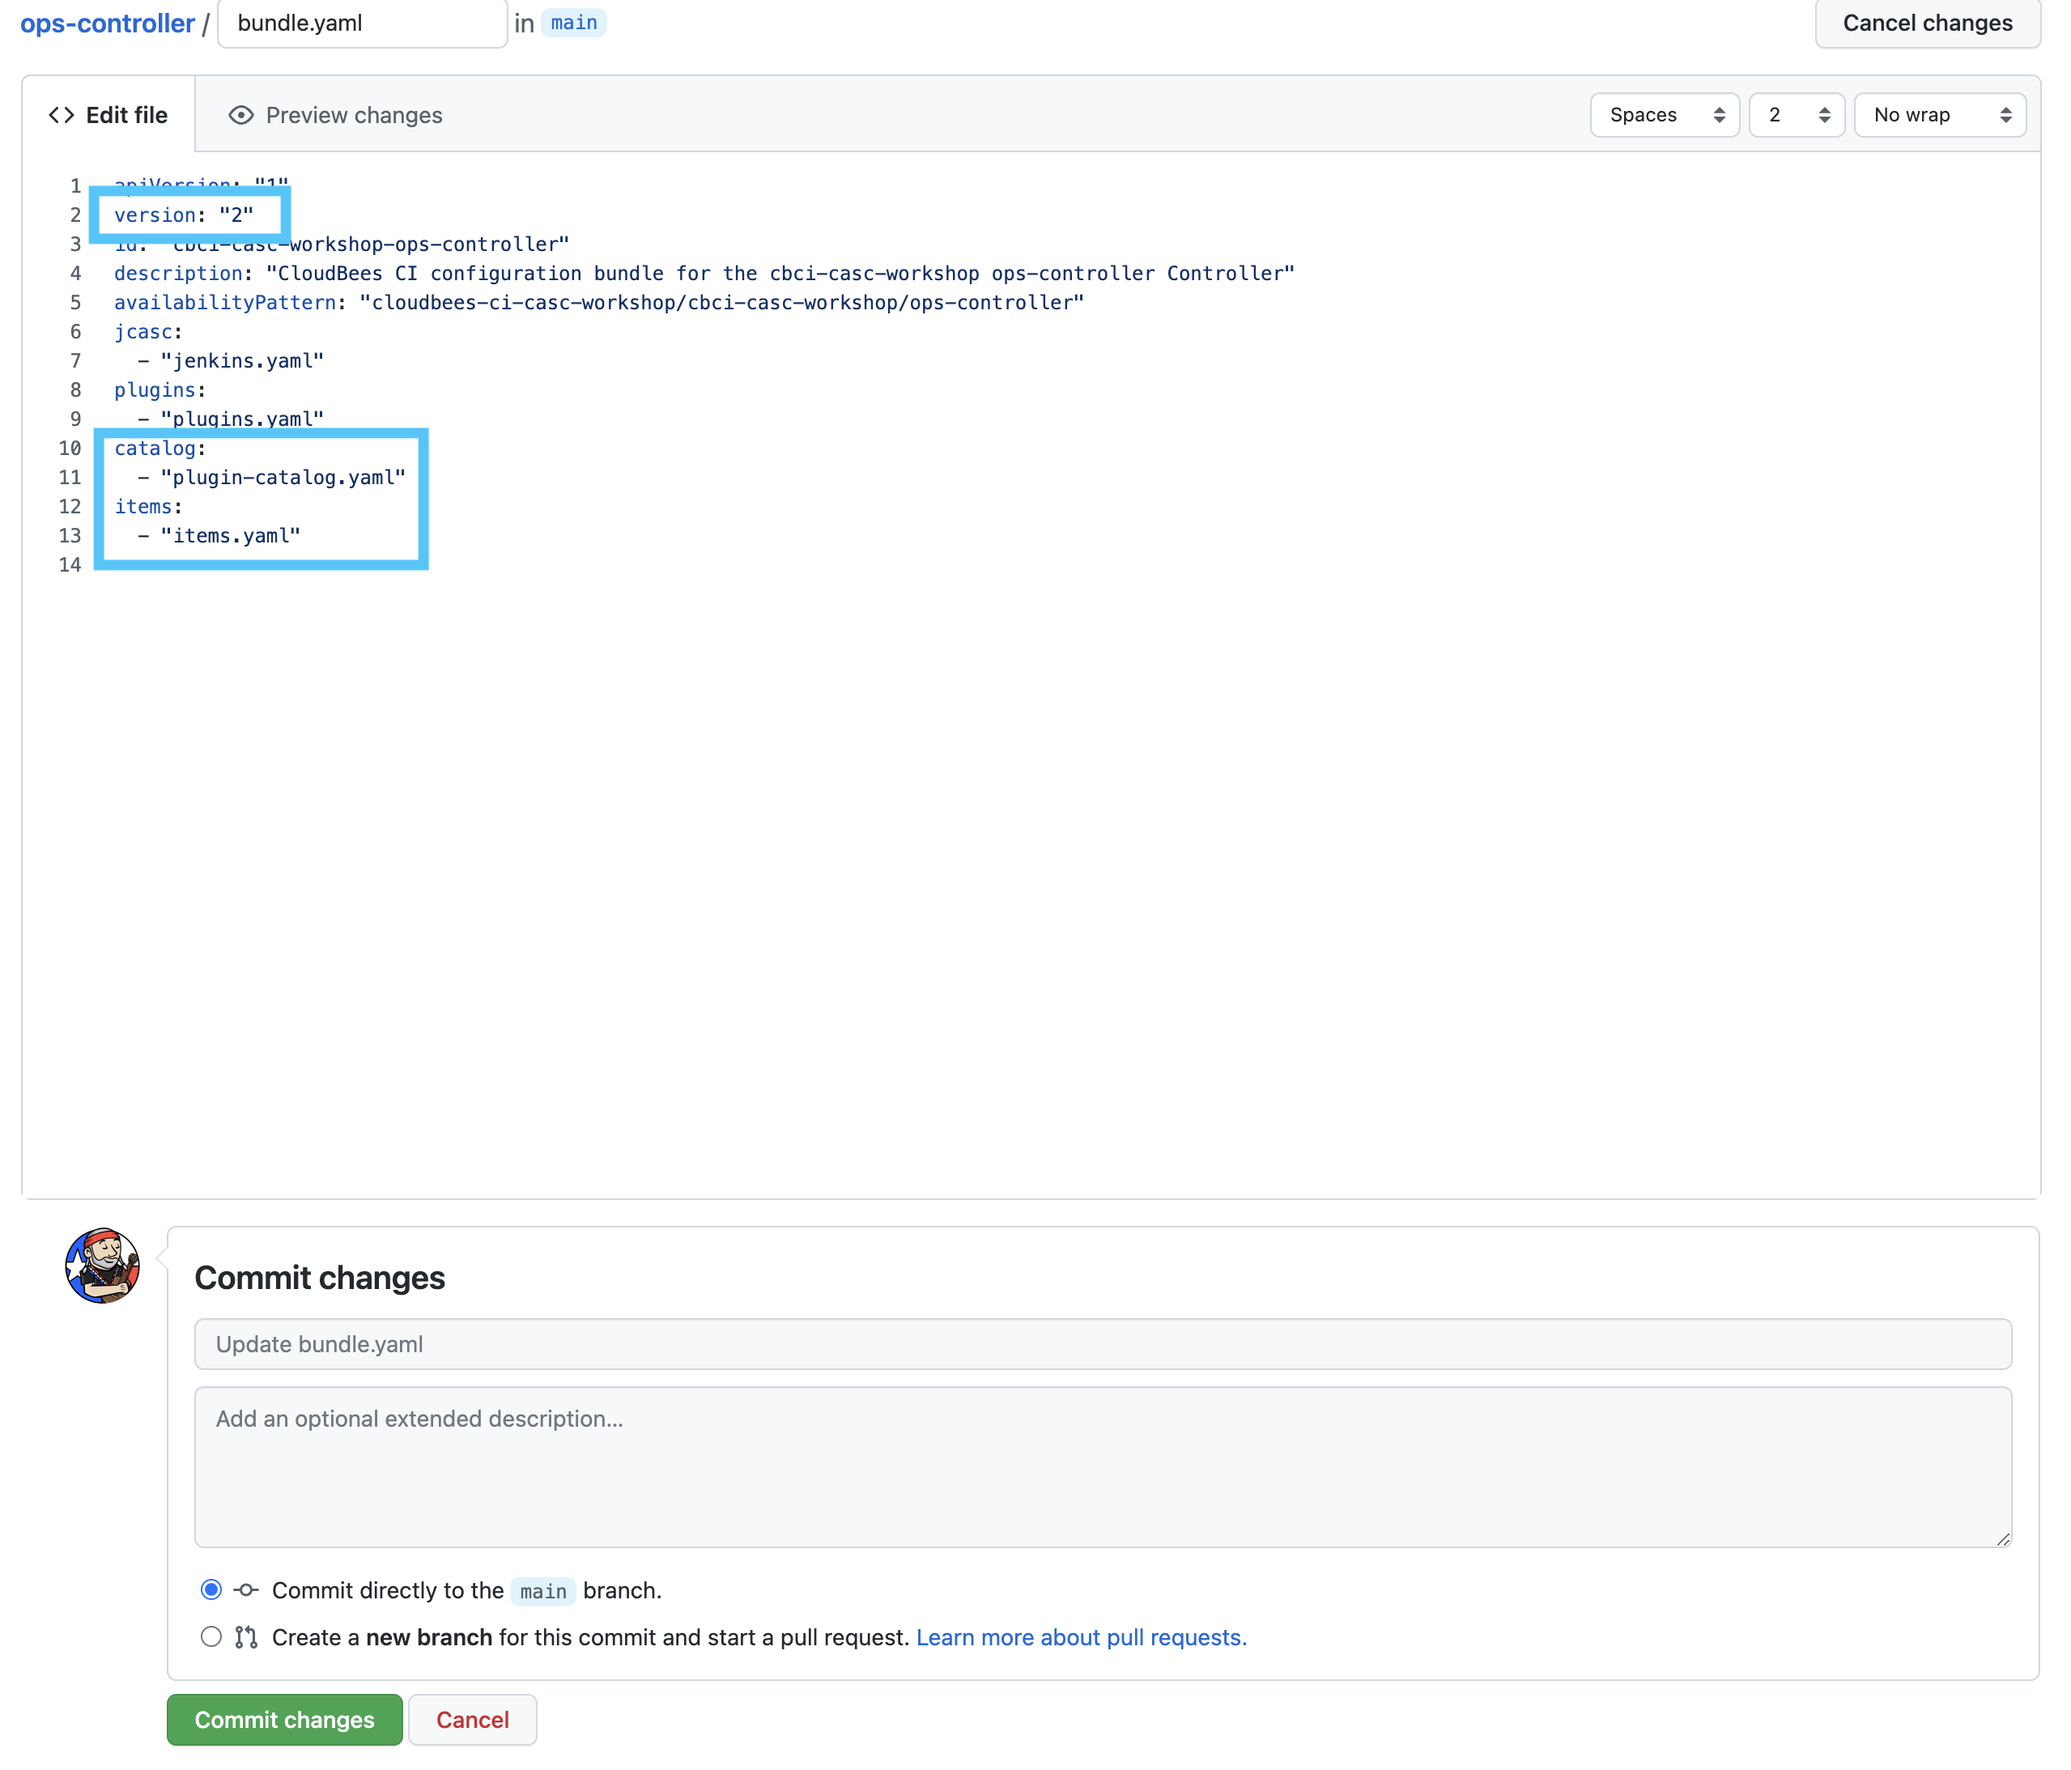
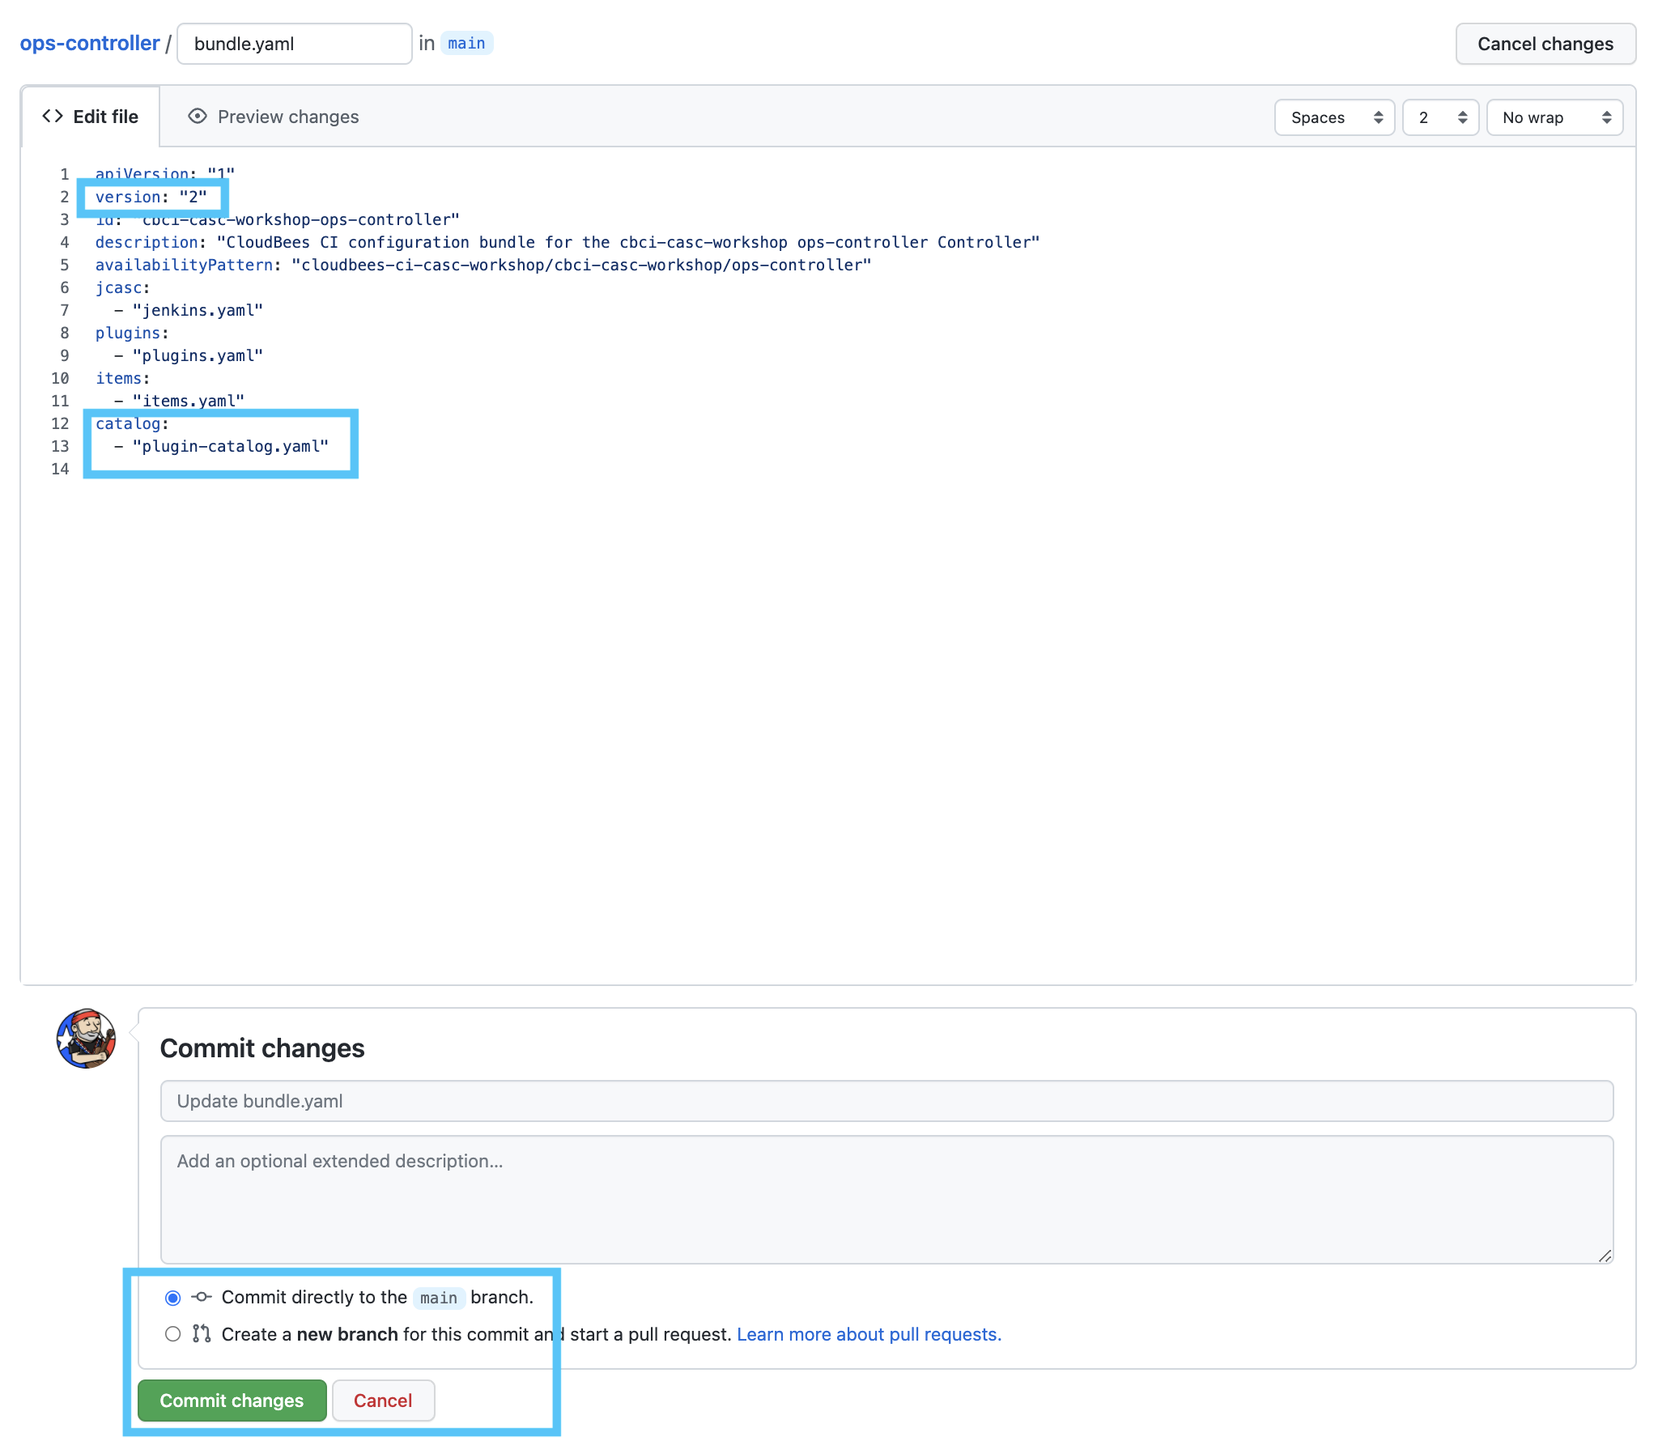
adding items

diff --git a/labs/cloudbees-ci-casc/content/labs/bundle-composition.md b/labs/cloudbees-ci-casc/content/labs/bundle-composition.md
@@ -254,8 +254,8 @@ plugins:
 - id: cloudbees-restricted-credentials
 ```
 {{% /expand%}}
-23. In addition to updating the `plugins.yaml`, we also added the`plugin-catalog.yaml` file. But it is not listed in the `bundles.yaml`. In order to have that file used by configuration bundle on our controller, we need to add it to the `bundle.yaml` file, so click on the `bundles.yaml` file and then click on the ***Edit this file*** pencil button.
-24. In the GitHub file editor for the `bundle.yaml` file, update the `version` field to **2** and add the following configuration to the end of the `bundle.yaml` file:
+14. In addition to updating the `plugins.yaml`, we also added the`plugin-catalog.yaml` file. But it is not listed in the `bundles.yaml`. In order to have that file used by configuration bundle on our controller, we need to add it to the `bundle.yaml` file, so click on the `bundles.yaml` file and then click on the ***Edit this file*** pencil button.
+15. In the GitHub file editor for the `bundle.yaml` file, update the `version` field to **2** and add the following configuration to the end of the `bundle.yaml` file:
 ```yaml
 catalog:
   - "plugin-catalog.yaml"
@@ -265,17 +265,75 @@ catalog:
 In previous versions of CloudBees CI Configuration as Code (CasC) for Controllers the `version` field of the `bundle.yaml` file had to be modified in order for an update to be triggered for controllers using that bundle. This is no longer required as any change in any file in a bundle will trigger a bundle update for any controllers using the updated bundle once those changes are copied to the JCasC bundle directory on Operations Center. However, it is still considered a best practice to increment the bundle version.
 {{% /notice %}}
 
-25. Commit the `bundle.yaml` file directly to the `main` branch of your `ops-controller` repository. ![Commit bundle.yaml](commit-bundle.png?width=50pc)
-14. Navigate back to the top level of your Ops controller, click on the **controller-jobs** folder.  ![Controller jobs](controller-jobs-folder.png?width=50pc) 
-15. On the **controller-jobs** folder click on the **Configure** left menu item. ![Configure folder](configure-folder-link.png?width=50pc) 
-16. Scroll to the bottom of the folder configuration and click on **Restrict the kind of children in this folder** - a [CloudBees Folders Plus](https://docs.cloudbees.com/docs/cloudbees-core/latest/cloud-secure-guide/folders-plus) feature - and then select **Pipeline**, **Multibranch Pipeline** and **Organization Folder** so only Jenkins Pipeline type jobs are allowed to be created in the folder; and then hit the **Save** button. ![Configure folder](configure-folder.png?width=50pc) 
-17. Navigate back to the top-level of your Ops controller and you should see the new **controller-jobs** folder. Click on the **Manage Jenkins** link in the left menu. ![Folder created](folder-created.png?width=50pc) 
-18. Next, On the **Manage Jenkins** page click on **CloudBees Configuration as Code export and update** under the **System Configuration** section.
-19. On the **CloudBees Configuration as Code export and update** page of your Ops controller, instead of clicking the *visualize* link, click the *Copy content* link for the `items.yaml` **Filename**. ![Items copy content link](items-copy-content-link.png?width=50pc) 
-20. Navigate to the top level of your copy of the `ops-controller` repository in your workshop GitHub Organization and click on the **Add file** button and then select **Create new file**. ![Create new file in GitHub](github-create-new-file.png?width=50pc)
-21. On the next screen, name the new file `items.yaml`, paste the contents from the `items.yaml` export (same as above).
-22. Add the `- jenkins.branch.OrganizationFolder` type as shown above and then commit directly to the `main` branch. ![Commit items.yaml](commit-items.png?width=50pc)
-26. The contents of your copy of the `ops-controller` repository in your workshop GitHub Organization should match the following screenshot: ![Repository contents](repository-contents.png?width=50pc)
-27. Finally, navigate back to the top level of your Ops controller, click on the **controller-jobs** folder and then click **Delete Folder** in the left menu. When the updated configuration bundle is applied to your Ops controller it will add the `controller-jobs` folder back. ![Delete folder](delete-folder.png?width=50pc)
+16. Commit the `bundle.yaml` file directly to the `main` branch of your `ops-controller` repository. ![Commit bundle.yaml](commit-bundle.png?width=50pc)
+17. Navigate back to the top level of your Ops controller, click on the **controller-jobs** folder.  ![Controller jobs](controller-jobs-folder.png?width=50pc) 
+18. On the **controller-jobs** folder click on the **Configure** left menu item. ![Configure folder](configure-folder-link.png?width=50pc) 
+19. Scroll to the bottom of the folder configuration and click on **Restrict the kind of children in this folder** - a [CloudBees Folders Plus](https://docs.cloudbees.com/docs/cloudbees-core/latest/cloud-secure-guide/folders-plus) feature - and then select **Pipeline**, **Multibranch Pipeline** and **Organization Folder** so only Jenkins Pipeline type jobs are allowed to be created in the folder; and then hit the **Save** button. ![Configure folder](configure-folder.png?width=50pc) 
+20. Navigate back to the top-level of your Ops controller and click on the **Manage Jenkins** link in the left menu. ![Folder updated](folder-created.png?width=50pc) 
+21. Next, On the **Manage Jenkins** page click on **CloudBees Configuration as Code export and update** under the **System Configuration** section.
+22. On the **CloudBees Configuration as Code export and update** page of your Ops controller, instead of clicking the *visualize* link, click the *Copy content* link for the `items.yaml` **Filename**. ![Items copy content link](items-copy-content-link.png?width=50pc) 
+23. Navigate to the top level of your copy of the `ops-controller` and click on the `items.yaml` file and then click on the ***Edit this file*** pencil button. ![Edit items.yaml](edit-items.png?width=50pc)
+24. Replace the entire contents of the file with the contents you copied from the `items.yaml` export and then commit directly to the `main` branch. ![Commit items.yaml](commit-items.png?width=50pc)
+
+{{%expand "expand for complete updated items.yaml file" %}}
+```yaml
+removeStrategy:
+  rbac: SYNC
+  items: NONE
+items:
+- kind: folder
+  displayName: controller-jobs
+  name: controller-jobs
+  description: ''
+  items:
+  - orphanedItemStrategy:
+      defaultOrphanedItemStrategy:
+        pruneDeadBranches: true
+        daysToKeep: -1
+        numToKeep: -1
+    kind: organizationFolder
+    displayName: cbci-casc-automation
+    name: cbci-casc-automation
+    navigators:
+    - github:
+        apiUri: https://api.github.com
+        repoOwner: cbci-casc-workshop
+        credentialsId: cloudbees-ci-casc-workshop-github-app
+    projectFactories:
+    - customMultiBranchProjectFactory:
+        factory:
+          customBranchProjectFactory:
+            marker: Jenkinsfile
+            definition:
+              cpsScmFlowDefinition:
+                scriptPath: controller-casc-automation
+                scm:
+                  gitSCM:
+                    userRemoteConfigs:
+                    - userRemoteConfig:
+                        credentialsId: cloudbees-ci-casc-workshop-github-app
+                        url: https://github.com/cbci-casc-workshop/ops-controller.git
+                    branches:
+                    - branchSpec:
+                        name: '*/main'
+                lightweight: true
+    trigger:
+      periodicFolderTrigger:
+        interval: 1d
+    strategy:
+      allBranchesSame: {}
+  properties:
+  - envVars: {}
+  - kubernetesFolderProperty: {}
+  - itemRestrictions:
+      allowedTypes:
+      - org.jenkinsci.plugins.workflow.job.WorkflowJob
+      - jenkins.branch.OrganizationFolder
+      - org.jenkinsci.plugins.workflow.multibranch.WorkflowMultiBranchProject
+      filter: true
+```
+{{% /expand%}}
+
+25. The contents of your copy of the `ops-controller` repository in your workshop GitHub Organization should match the following screenshot: ![Repository contents](repository-contents.png?width=50pc)
 
 So now we have an updated configuration bundle based on a bundle export from our Ops controller but the bundle hasn't actually been applied to the controller. In the next lab we will set up a job to actually update the bundle files on Operations Center, that will in turn trigger an available update on your controller, any time there is a commit to the `main` branch of your `ops-controller` repository.
